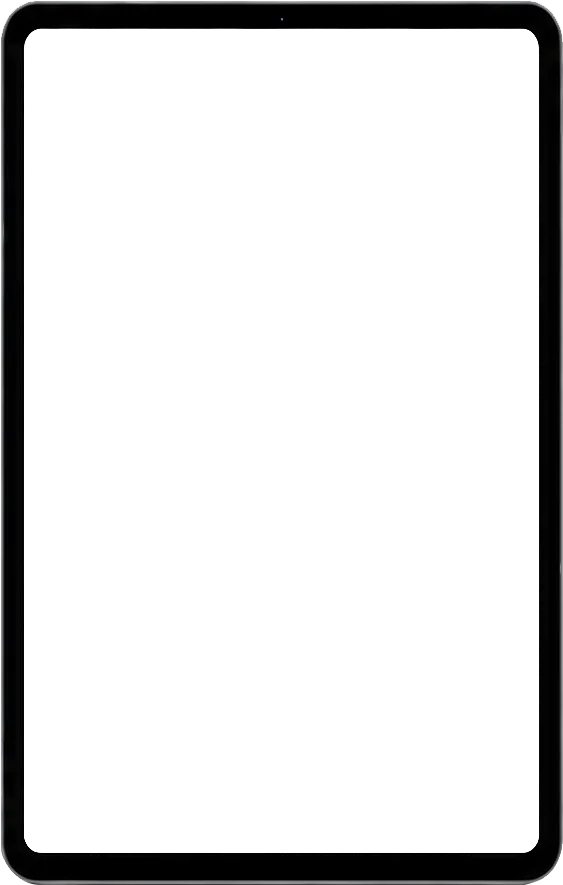
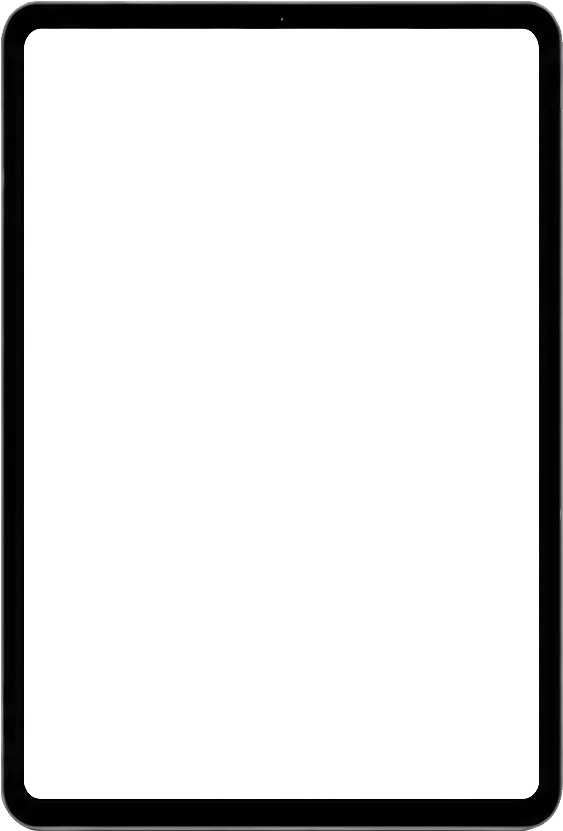
adjust tablet frame

diff --git a/pages/revo-admin-project.html b/pages/revo-admin-project.html
@@ -72,21 +72,21 @@
                     <div class="frame-laptop">
                         <img src="/images/sp-img-frame-laptop.webp" draggable="false" alt="laptop">
                         <div class="frame-content">
-                            <img src="/images/sp-project-img-laptop-placeholder.webp">
+                            <img src="/images/proj-rvadm/sp-img-prj-rvadm-laptop-01.webp">
                         </div>
                     </div>
 
                     <div class="frame-tablet">
                         <img src="/images/sp-img-frame-tablet.webp" draggable="false" alt="tablet">
                         <div class="frame-content">
-                            <img src="/images/sp-project-img-tablet-placeholder.webp">
+                            <img src="/images/proj-rvadm/sp-img-prj-rvadm-tablet-01.webp">
                         </div>
                     </div>
 
                     <div class="frame-hp">
                         <img src="/images/sp-img-frame-hp.webp" draggable="false" alt="hp">
                         <div class="frame-content">
-                            <img src="/images/sp-project-img-hp-placeholder.webp">
+                            <img src="/images/proj-rvadm/sp-img-prj-rvadm-hp-01.webp">
                         </div>
                     </div>
                 </div>
@@ -181,7 +181,7 @@
                             <div class="frame-content" data-helper-video-player>
                                 <video data-helper-video muted playsinline
                                     preload="none"
-                                    poster="/images/sp-project-img-laptop-placeholder.webp">
+                                    poster="/images/proj-rvadm/sp-img-prj-rvadm-laptop-01.webp">
                                     <source src="/images/proj-rvadm/sp-vid-prj-rvadm.mp4" type="video/mp4">
                                     Your browser does not support the video tag.
                                 </video>
@@ -195,7 +195,7 @@
                         <div class="frame-tablet">
                             <img src="/images/sp-img-frame-tablet.webp" draggable="false" alt="tablet">
                             <div class="frame-content">
-                                <img src="/images/sp-project-img-tablet-placeholder.webp" alt="">
+                                <img src="/images/proj-rvadm/sp-img-prj-rvadm-tablet-01.webp">
                             </div>
                         </div>
                         <p class="frame-title">tablet screen</p>
@@ -205,7 +205,7 @@
                         <div class="frame-hp">
                             <img src="/images/sp-img-frame-hp.webp" draggable="false" alt="hp">
                             <div class="frame-content">
-                                <img src="/images/sp-project-img-hp-placeholder.webp">
+                                <img src="/images/proj-rvadm/sp-img-prj-rvadm-hp-01.webp">
                             </div>
                         </div>
                         <p class="frame-title">mobile screen</p>

diff --git a/assets/css/main.css b/assets/css/main.css
@@ -1357,7 +1357,7 @@
             .frame-content {
                 top: 7.2%;
                 bottom: 13.2%;
-                width: 80%;
+                width: 80.1%;
             }
         }        
         .frame-tablet {
@@ -1367,9 +1367,9 @@
             aspect-ratio: 10 / 16;
 
             .frame-content {
-                top: 4%;
-                bottom: 4.2%;
-                width: 91%;
+                top: 7%;
+                bottom: 7%;
+                width: 92%;
                 border-radius: .25rem;
             }
         }        
@@ -1598,7 +1598,7 @@
             .frame-content {
                 top: 7.3%;
                 bottom: 13.2%;
-                width: 80%;
+                width: 80.2%;
             }
         }        
         .frame-tablet {
@@ -1607,9 +1607,9 @@
             aspect-ratio: 10 / 16;
 
             .frame-content {
-                top: 4%;
-                bottom: 4.2%;
-                width: 91%;
+                top: 7%;
+                bottom: 7%;
+                width: 92%;
                 border-radius: .25rem;
             }
         }        

diff --git a/index.html b/index.html
@@ -942,7 +942,7 @@
                     
                     <a href="/pages/revo-admin-project.html" class="timeline-item" aria-label="View details for revolution property admin">
                         <div class="timeline-media">
-                            <img src="images/sp-project-img-more-screen-placeholder.webp" alt="revolution property admin project preview">
+                            <img src="images/proj-rvadm/sp-img-prj-rvadm-laptop-01.webp" alt="revolution property admin project preview">
                         </div>                        
                         <div class="timeline-marker"></div>
                         <div class="timeline-content">

diff --git a/assets/css/responsive.css b/assets/css/responsive.css
@@ -70,7 +70,7 @@
 
         .timeline-item {
             grid-template-columns: minmax(0, .5fr) 2rem minmax(0, 1fr);
-            align-items: center;
+            align-items: flex-start;
             gap: 2rem;
         }
 
@@ -80,8 +80,13 @@
         }
 
         .timeline-media {
+            height: fit-content;
             grid-column: 1;
             border-radius: 1.05rem;
+
+            img {
+                height: fit-content;
+            }
         }
         
         .timeline-content {
